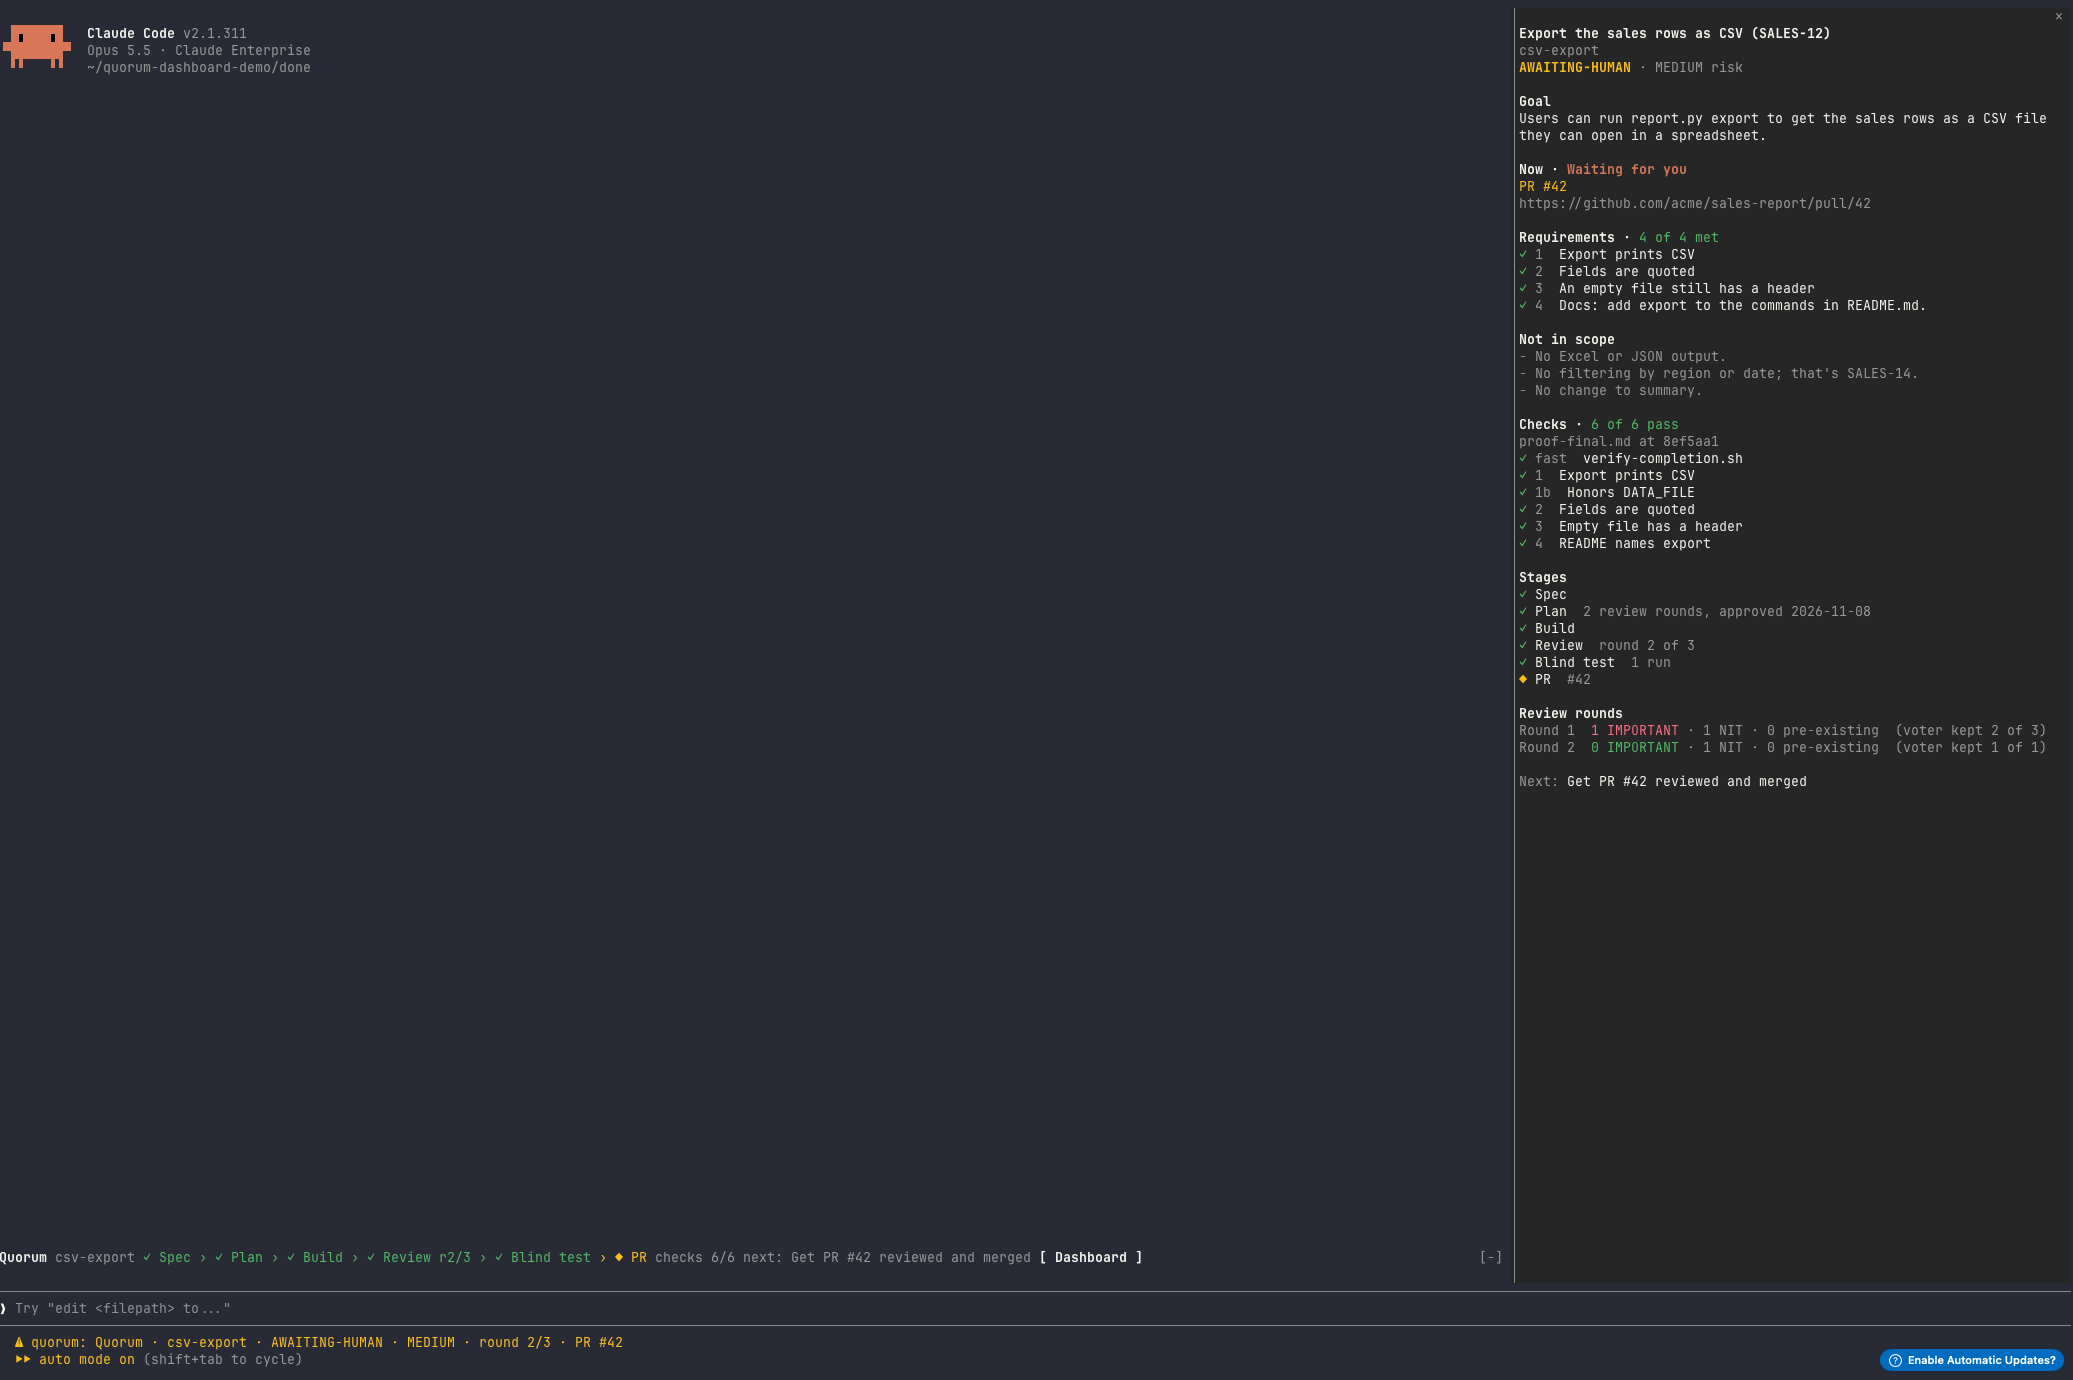
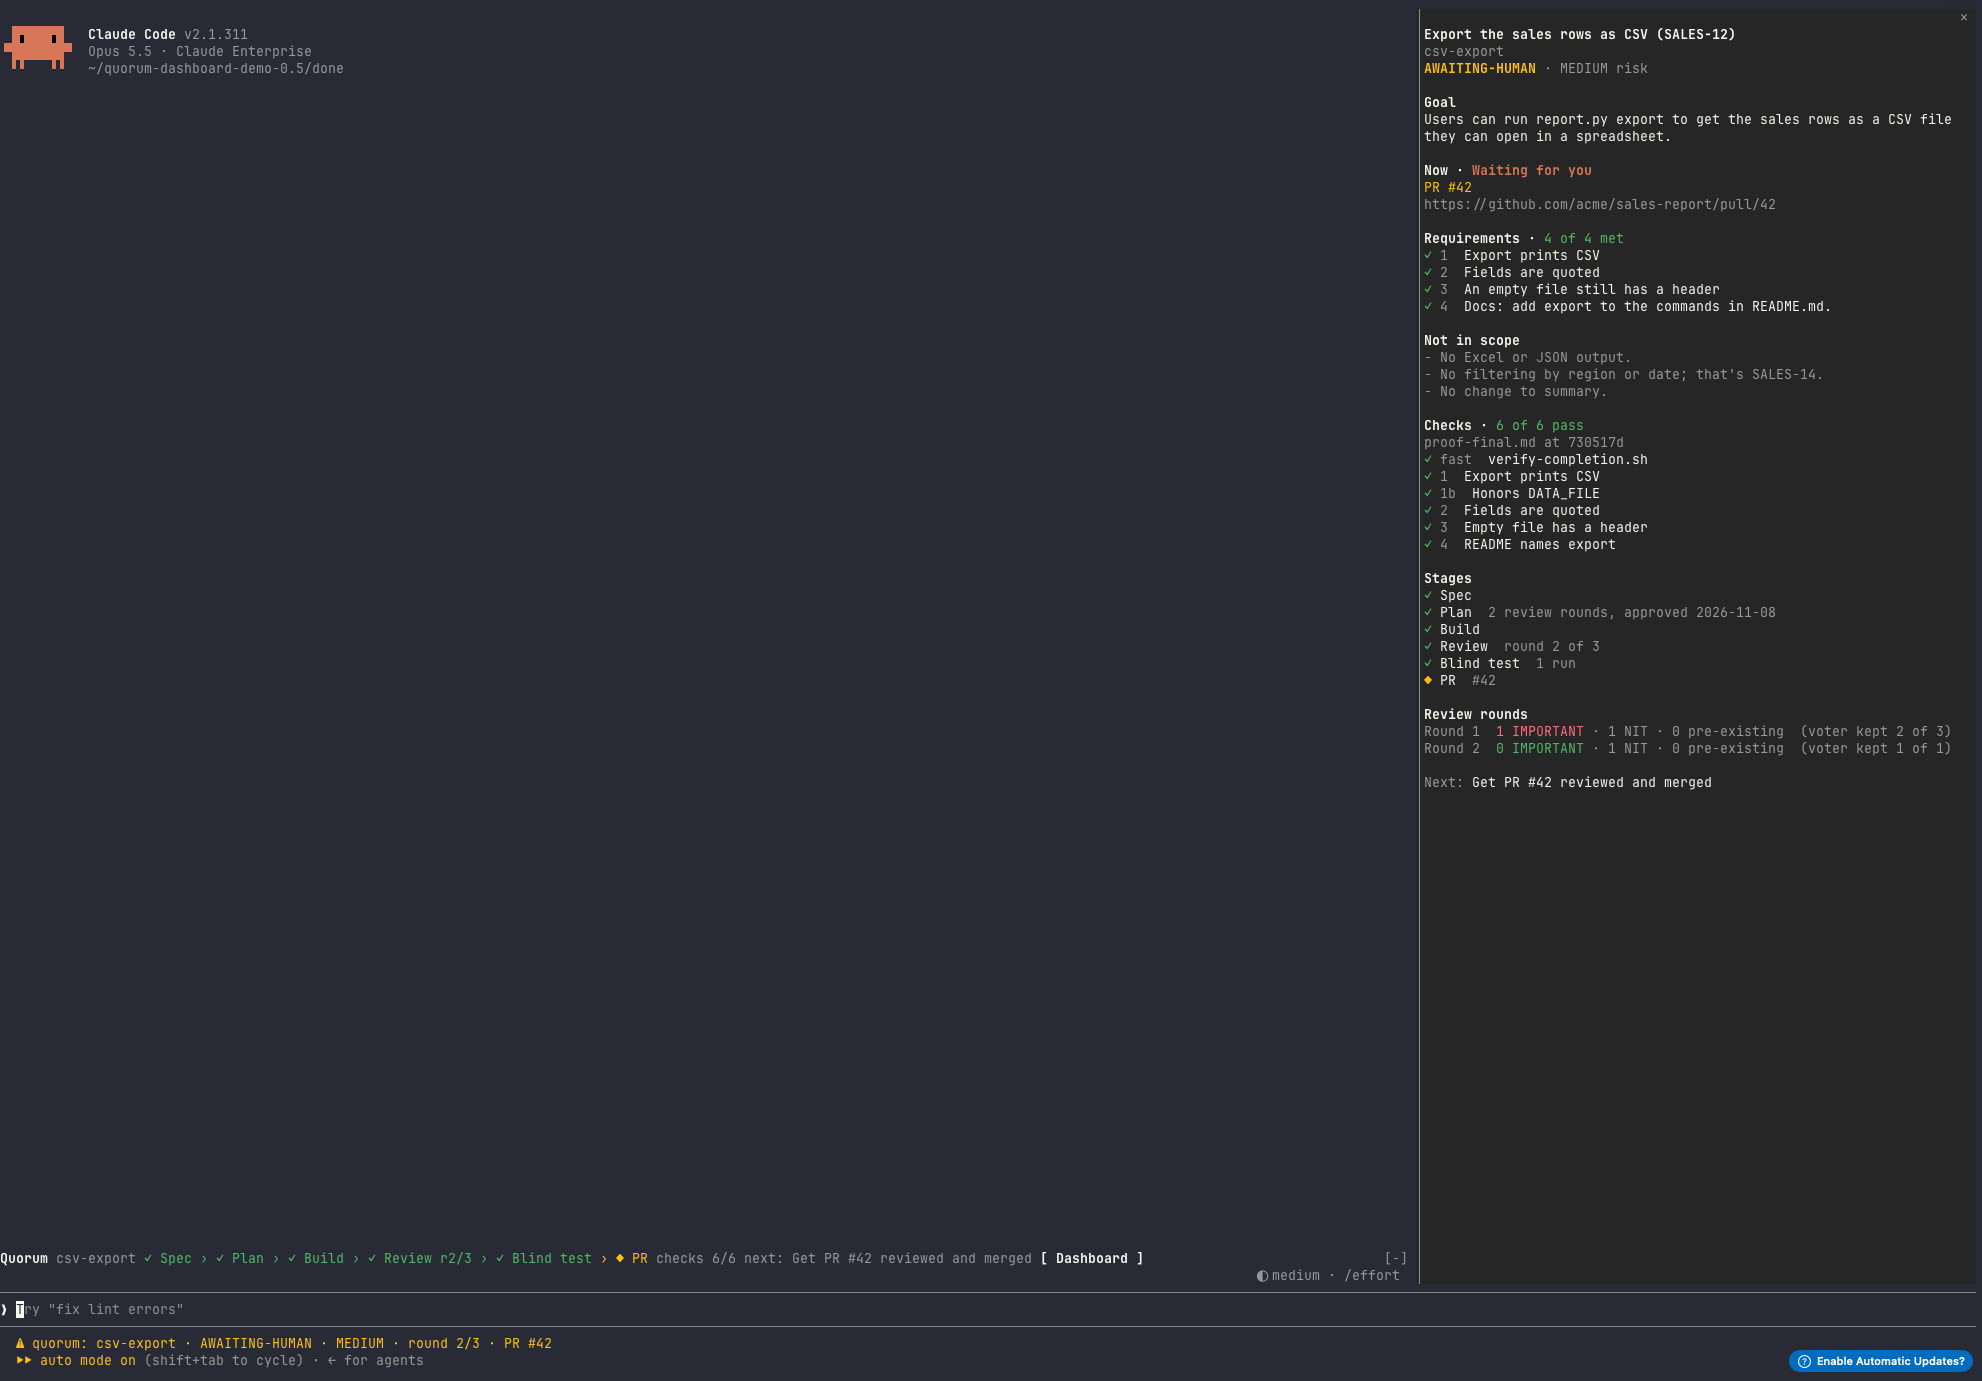
Retake the dashboard screenshots for 0.5.0
Both now show the status line without the repeated Quorum, and the default
round cap of 3.

diff --git a/TODO.md b/TODO.md
@@ -5,17 +5,12 @@ sketches. Each item says why it matters, which mostly comes from comparing Quoru
 the same job (Superpowers, Compound Engineering, and Anthropic's `code-review`, `feature-dev`, and
 `pr-review-toolkit`), as of November 2026.
 
-## 0. Retake the dashboard screenshots
+## 0. A dashboard screenshot that shows Spend
 
-The diagrams are redrawn (the agent map's `/quorum:review` band and the new `/quorum:run` diagram); the other
-diagrams' content didn't change. What's left needs a person at a fullscreen terminal:
-
-- `assets/dashboard-review.png` and `assets/dashboard-done.png`. The pane now has a **Spend** section, which only
-  appears for agents that really ran in the session: `assets/src/dashboard-demo.sh` writes `.tasks/` files and
-  starts no agents, so its screenshots show no Spend. For the review screenshot, run `/quorum:run` on a copy of
-  `tests/e2e/sales-app` (bootstrapped as `evals/_fixture/make.sh` does) and take it during the review loop; the
-  demo script is still right for the done screenshot.
-- Update their alt text in the README to mention the Spend section.
+The 0.5.0 screenshots come from `assets/src/dashboard-demo.sh`, which starts no agents, so they don't show the
+pane's **Spend** section (it counts agents that really ran in the session). Next time the screenshots are retaken,
+take the review one during a real `/quorum:run` on a bootstrapped copy of `tests/e2e/sales-app`, and add Spend to
+its alt text. Open it with `--plugin-dir` and the installed Quorum disabled, so the round cap is the default 3.
 
 ## 1. `/quorum:review`: what's left
 
